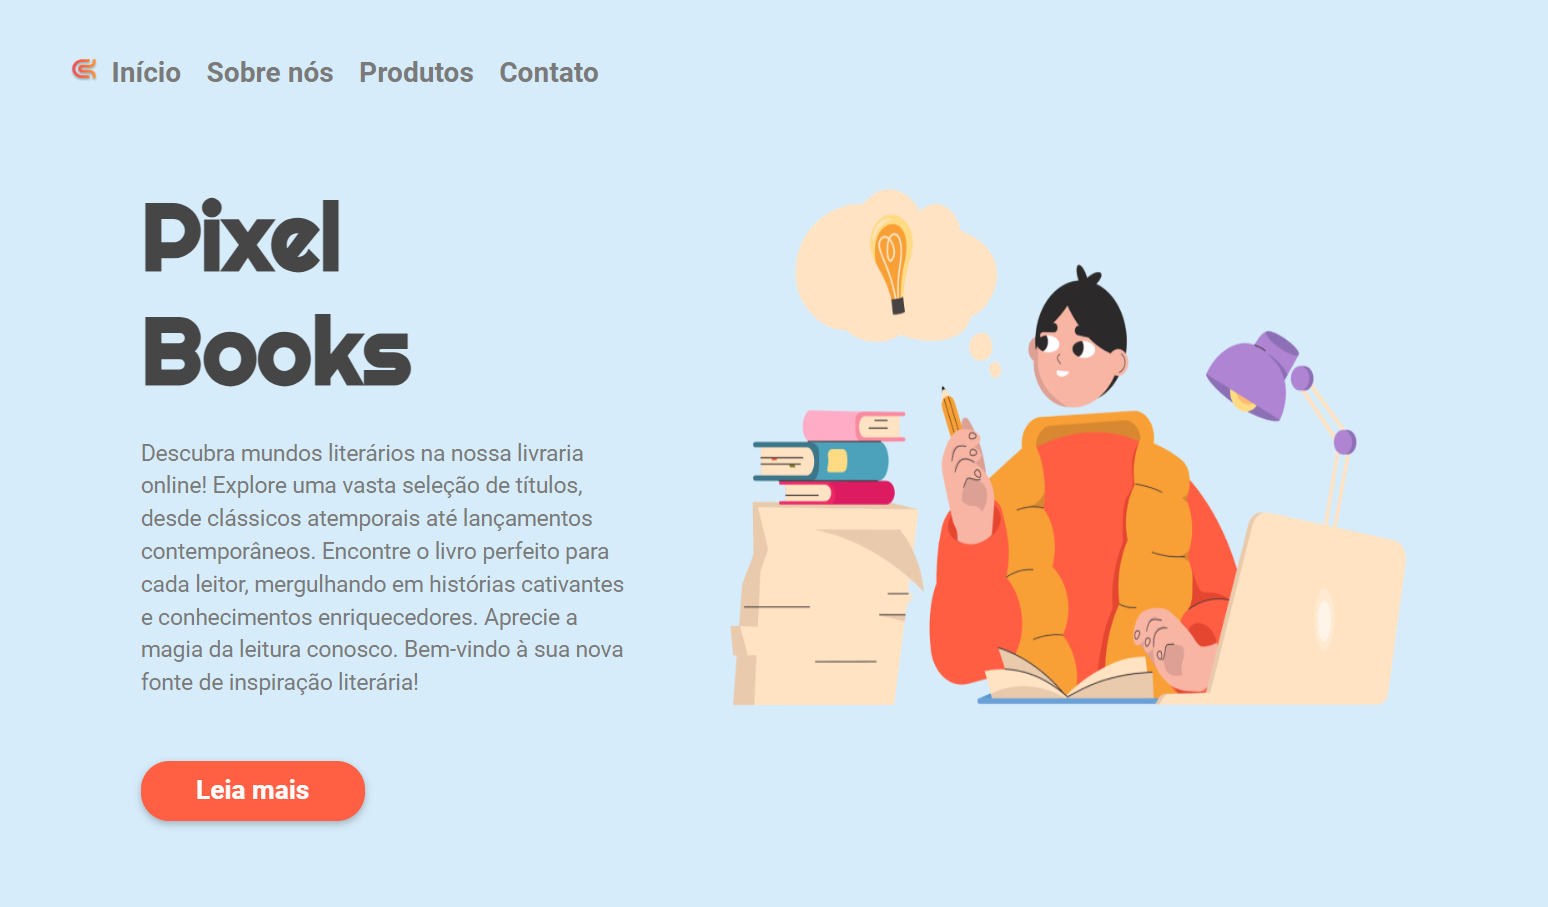
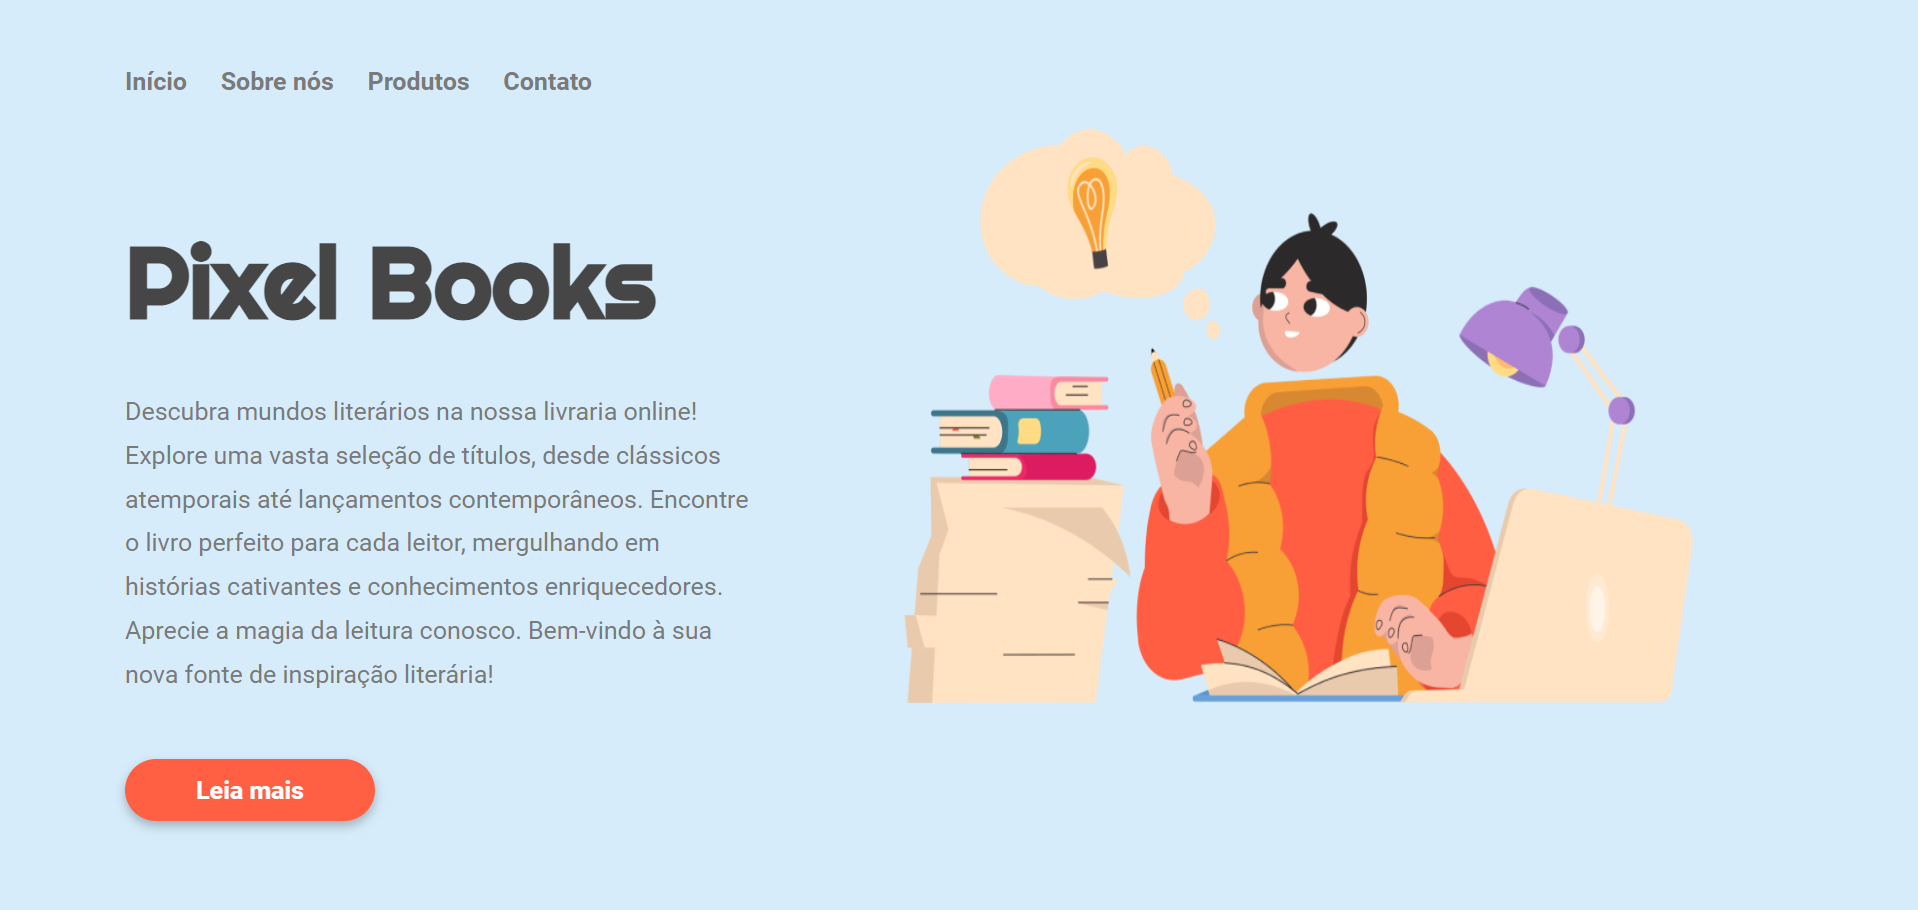
alteracao

diff --git a/styles.css b/styles.css
@@ -7,19 +7,12 @@
 }
 
 header {
-    margin: 20px 0 80px 75px;
-}
-
-.logotipo {
-    width: 30px;
-    height: 25px;
-    margin: 45px 10px 0 0;
-    filter: drop-shadow(0px 4px 4px rgba(0 0 0 0.25));
+    margin: 50px 10px 0 100px;
 }
 
 .link-header {
     font-weight: 600;
-    font-size: 30px;
+    font-size: 20px;
     line-height: 29px;
     color: #7a7a7a;
     margin-right: 23px;
@@ -36,48 +29,48 @@ header {
 }
 
 .image {
-    width: 800px;
-    height: 600px;
-    margin-left: 50px;
+    width: 700px;
+    height: 500px;
+    margin-left: 80px;
     display: inline-block;
-    margin-bottom: 80px;
+    margin-bottom: 60px;
 }
 
 main {
     display: inline-block;
-    margin-left: 150px;
-    width: 530px;
+    margin-left: 100px;
+    width: 500px;
     height: 50px;
 }
 
 h1 {
     font-family: 'Righteous', sans-serif;
     font-weight: 900;
-    font-size: 100px;
+    font-size: 80px;
     line-height: 122px;
     color: #464646;
 }
 
 p {
     font-weight: 400;
-    font-size: 24px;
+    font-size: 20px;
     line-height: 35px;
     color: #7a7a7a;
-    width: 530px;
-    margin-top: 32px;
-    margin-bottom: 65px;
+    width: 500px;
+    margin-top: 25px;
+    margin-bottom: 50px;
 }
 
 .button-main {
     background: #FF5F43;
     border-radius: 30px;
-    width: 239px;
-    height: 64px;
+    width: 200px;
+    height: 50px;
     border: none;
     cursor: pointer;
     filter: drop-shadow(0px 4px 4px rgba(0, 0, 0, 0.25));
     font-weight: 700;
-    font-size: 28px;
+    font-size: 20px;
     line-height: 34px;
     color: #ffffff;
     margin-bottom: 50px;

diff --git a/index.html b/index.html
@@ -14,7 +14,6 @@
 
 <body>
     <header>
-        <img src="./assets/logo (1).png" class="logotipo" alt="logo">
         <a href="#" class="link-header">Início</a>
         <a href="#" class="link-header">Sobre nós</a>
         <a href="#" class="link-header">Produtos</a>

diff --git a/README.md b/README.md
@@ -7,7 +7,7 @@ Pixel Books
 </h2>
 
 <p>
-Landing Page de uma livraria
+Landing Page de uma livraria para exercitar Html e CSS.
 </p>
 
 <h2>
@@ -22,3 +22,5 @@ Landing Page de uma livraria
 <h2>Desktop</h2>
 
 <img src="./assets/print-livraria.png"/>
+
+
